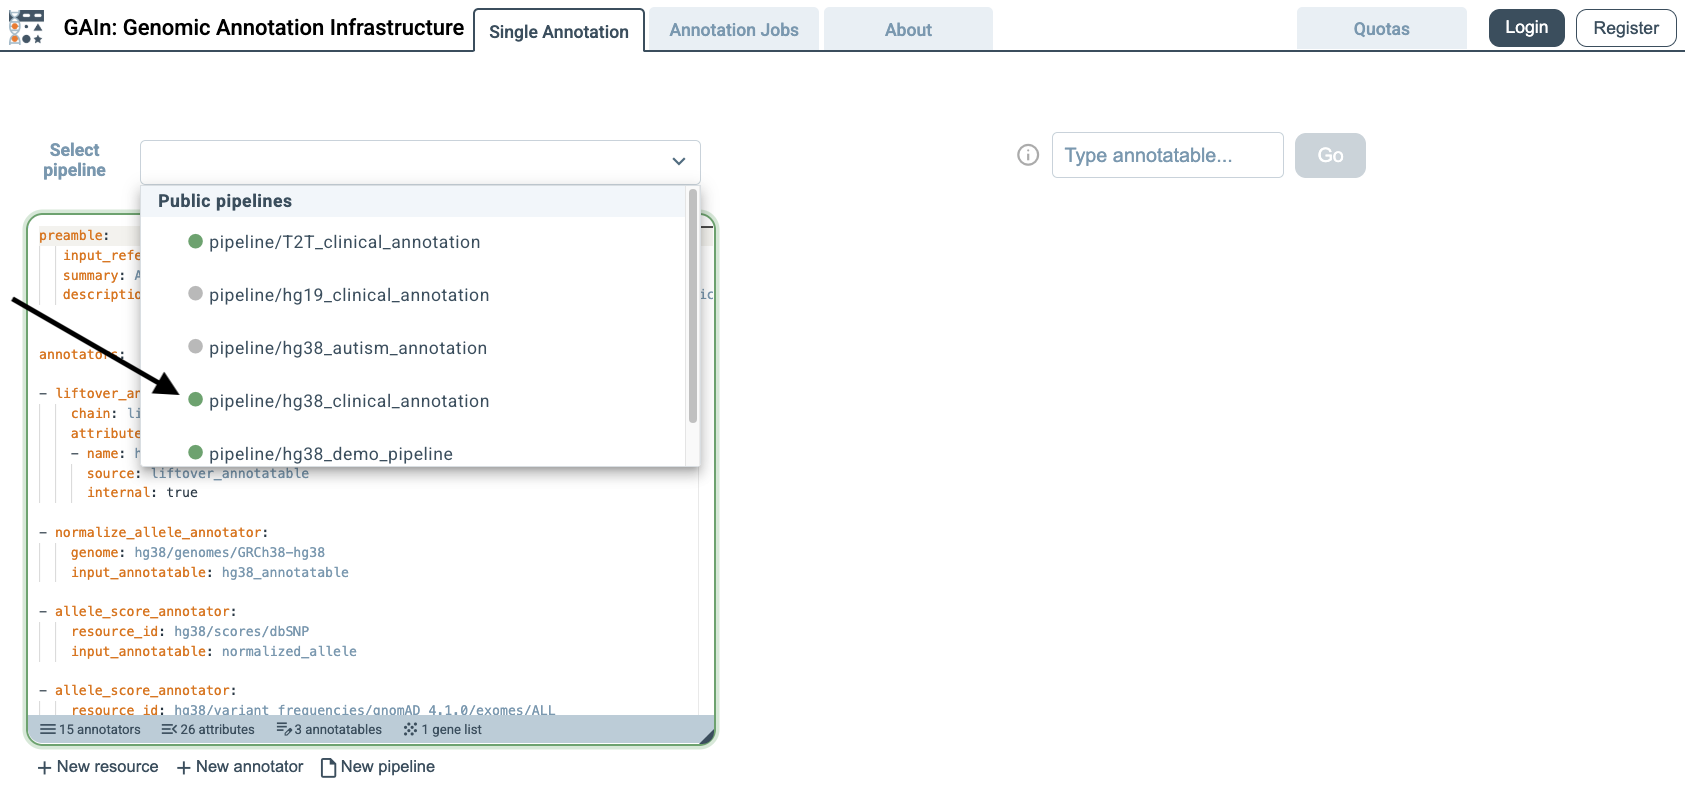
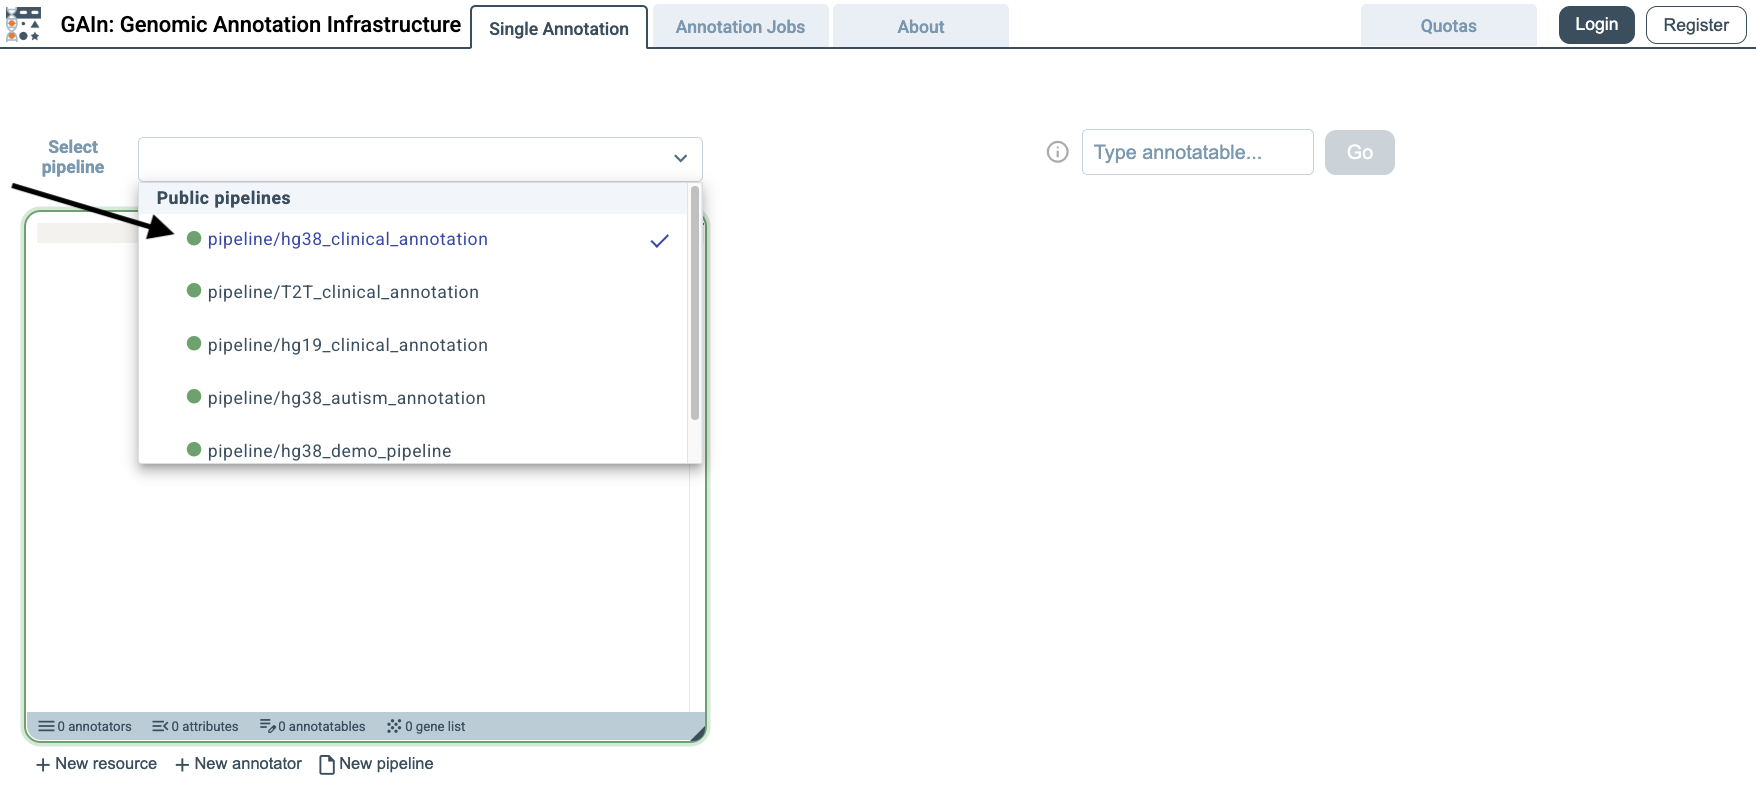
getting started with GRR restructured

Changed region(s): [[0.0, 0.183, 0.432, 0.9759], [0.0, 0.0, 1.0, 0.0915], [0.5864, 0.1525, 0.8332, 0.244]]

diff --git a/docs/source/gain_getting_started_grr.rst b/docs/source/gain_getting_started_grr.rst
@@ -23,12 +23,65 @@ Initialize this directory as a GRR:
 
 From now on, any subdirectory under ``my_GRR`` becomes a genomic resource if:
 
-1. It contains a properly configured genomic_resource.yaml, and
+1. It contains a properly configured ``genomic_resource.yaml``, and
 
 2. It includes the data files referenced in that YAML.
 
-Add new resources
----------------------
+
+
+Connect the local GRR to GAIn
+-----------------------------
+
+A fresh GAIn installation includes access to the default public IossifovLab GRR. To make GAIn use ``my_GRR`` for browsing and annotation, add it to your GRR definition file, ``~/.grr_definition.yaml``. Replace <path_to_my_GRR>/my_GRR with the full path to the ``my_GRR`` directory you created above.
+
+
+.. code-block:: yaml
+
+    id: development
+    type: group
+    children:
+
+    - id: main-GRR
+      type: url
+      url: https://grr.iossifovlab.com
+    
+    - id: my_GRR
+      type: directory
+      directory: <path_to_my_GRR>/my_GRR
+
+This configuration tells GAIn that, when resolving a resource ID, it should first look in the public GRR
+hosted by the Iossifov lab (``GRR``). If the resource is not found there, it then falls back to the local
+directory-based GRR (``my_GRR``). 
+
+You can confirm that GAIn recognizes both GRRs by running ``grr_browse``:
+
+.. code-block:: bash
+
+    grr_browse
+
+The output should show that GAIn is using ``~/.grr_definition.yaml`` and that
+both ``main-GRR`` and ``my_GRR`` are included in the active GRR definition:
+
+.. code-block:: text
+
+    Working with GRR definition: <home directory>/.grr_definition.yaml
+    id: development
+    type: group
+    children:
+    - id: main-GRR
+      type: url
+      url: https://grr.iossifovlab.com
+    - id: my_GRR
+      type: directory
+      directory: <path_to_my_GRR>/my_GRR
+
+    samocha_enrichment_background 0        4 1.38 MB      main-GRR enrichment/samocha_background
+    gene_score           0        6 7.8 MB       main-GRR gene_properties/gene_scores/Iossifov_Wigler_PNAS_2015
+    gene_score           0       11 576.07 KB    main-GRR gene_properties/gene_scores/LGD
+    ...
+
+Add new resources to the local GRR
+------------------------------
 
 1: Toy genome
 ^^^^^^^^^^^^^^^^^^^^^^^
@@ -77,9 +130,8 @@ this configures the minigenome resource so GAIn can recognize and use it for ann
       summary: mini genome
 
 
-With the FASTA, index, and ``genomic_resource.yaml`` in place, the minigenome resource is already usable for 
-annotation by GAIn (however, you will need to update your ``.grr_definition.yaml`` file to include ``my_GRR``, 
-which includes this resource). 
+With the FASTA, index, and ``genomic_resource.yaml`` in place, the ``my_minigenome`` resource is already usable for 
+annotation by GAIn. 
 We strongly recommend running the command below, which checks the resource and produces summary statistics.
 
 .. code-block:: bash
@@ -1001,65 +1053,18 @@ and any available statistics for the CNV collection resource.
 
 
 
+Annotation using the local GRR
+------------------------------
 
-Select GRR to work with
------------------------
+Your local GRR is now ready to support annotation. The examples above added several local resources, including genomes, gene models, position scores, and allele scores. Since ``my_GRR`` is listed in ``~/.grr_definition.yaml``, GAIn can use these resources during annotation. The example below uses the local resources created in this guide.
 
-As noted earlier, a fresh GAIn installation includes access to the default IossifovLab GRR. 
-If you want GAIn to use a different set of GRRs for annotation (for example, a local GRR you created), 
-you can define them explicitly by creating a file named .grr_definition.yaml in your home directory. 
-This file specifies which GRRs GAIn should connect to when browsing and annotating.
-
-To let GAIn see our newly created local repository, my_GRR, we create ~/.grr_definition.yaml with 
-the following content:
-
-.. code-block:: yaml
-
-   id: development
-   type: group
-   children:
-   - id: GRR
-     type: url
-     url: https://grr.iossifovlab.com
-
-   - id: my_GRR
-     type: directory
-     directory: <path to myGRR>/my_GRR
-
-
-This configuration tells GAIn that, when resolving a resource ID, it should first look in the public GRR
-hosted by the Iossifov lab (``GRR``). If the resource is not found there, it then falls back to the local
-directory-based GRR (``my_GRR``). 
-
-If you use the ``grr_browse`` command again, you will see that GAIn now recognizes both GRRs.
-
-.. code-block:: text
-
-    Working with GRR definition: <home directory>/.grr_definition.yaml
-    id: development
-    type: group
-    children:
-    - id: GRR
-      type: url
-      url: https://grr.iossifovlab.com
-    - id: my_GRR
-      type: directory
-      directory: <path to myGRR>/my_GRR
-
-    samocha_enrichment_background 0        4 1.38 MB      GRR enrichment/samocha_background
-    gene_score           0        6 7.8 MB       GRR gene_properties/gene_scores/Iossifov_Wigler_PNAS_2015
-    gene_score           0       11 576.07 KB    GRR gene_properties/gene_scores/LGD
-    ...
-
-Below is an example annotation pipeline you can run using your 
-local resources. Copy the contents into a text file named 
-``annotation_pipeline_local.yaml``.
+Create a file named ``annotation_pipeline_local.yaml`` with the following content:
 
 .. code-block:: yaml
 
     preamble:
-    summary: Local pipeline 
-    input_reference_genome: my_genome
+      summary: Local pipeline
+      input_reference_genome: my_genome
 
     annotators:
     - effect_annotator:
@@ -1069,82 +1074,59 @@ local resources. Copy the contents into a text file named
         - gene_list
         - genes
 
-    - position_score:
+    - position_score_annotator:
         resource_id: my_position
 
     - normalize_allele_annotator
-    - allele_score: 
-        resource_id: my_allele 
+
+    - allele_score_annotator:
+        resource_id: my_allele
         input_annotatable: normalized_allele
 
     - gene_score_annotator:
         resource_id: my_genescore
         input_gene_list: gene_list
 
-Run the following command to annotate your variants using this pipeline.
+Run the following command to annotate your variants using this pipeline:
 
 .. code-block:: bash
 
-    annotate_tabular variants.txt annotation_pipeline_local.yaml
+    annotate_tabular small_input.csv annotation_pipeline_local.yaml -variants_local_annotated.txt
 
-
-This will create a ``variants.annotated.txt`` file with the following content:
+This command creates a file named ``small_input.annotated.csv`` with the following content:
 
 .. csv-table::
     :header-rows: 1
 
     chrom,pos,ref,alt,worst_effect,genes,phyloP7way,am_pathogenicity,am_class,my_genescore
-    chr14,21415880,G,A,nonsense,CHD8,0.917,,,{'CHD8': 9}
-    chr17,7674904,TCT,T,frame-shift,TP53,-0.12,0.151,likely_benignlikely_benignlikely_benignlikely_benignlikely_benignlikely_benignlikely_benignlikely_benignlikely_benign,{'TP53': 3}
-    chr7,117587806,G,A,missense,CFTR,0.917,0.99,likely_pathogenic,{'CFTR': 7}
-
-You can now annotate your variants for gene effects using the latest genomic 
-assembly (GRCh38-p14), the MANE gene model (v1.5), PhyloP7, and AlphaMissense — 
-entirely offline. Simply comment out the Iossifov Lab GRR resource in your 
-``.grr_definition.yaml`` file, disconnect from the network, and run the annotation locally.
+    chr14,21415880,G,A,nonsense,CHD8,0.917,,,"{'CHD8': 9}"
+    chr17,7674904,TCT,T,frame-shift,TP53,-0.12,0.151,likely_benignlikely_benignlikely_benignlikely_benignlikely_benignlikely_benignlikely_benignlikely_benignlikely_benign,"{'TP53': 3}"
+    chr7,117587806,G,A,missense,CFTR,0.917,0.99,likely_pathogenic,"{'CFTR': 7}"
 
 
-.. code-block:: yaml
-
-    id: "development"
-    type: group
-    children:
-    #- id: "GRR"
-    #  type: "url"
-    #  url: "https://grr.iossifovlab.com"
-
-    - id: "my_GRR"
-    type: "directory"
-    directory: "/Users/muratcokol/Desktop/my_GRR"
-
-
-
-
-
-
-miniGRR: a template GRR
+mini-GRR: a template GRR
 -----------------------
 
-Defining new genomic resources can feel a bit abstract at first: different resource types expect different file formats 
-(FASTA, BigWig, tabix-indexed TSV/VCF, …), coordinate conventions (0-based vs 1-based), and configuration options in 
-``genomic_resource.yaml``. To make this concrete, we provide **miniGRR**, a small, self-contained Genomic Resource Repository on 
-GitHub that you can use as a template.
+Defining new genomic resources can feel abstract at first: different resource types expect different file formats, coordinate conventions, and configuration options in ``genomic_resource.yaml``. To make these patterns easier to inspect, we provide ``mini-GRR``, a small, self-contained Genomic Resource Repository that can be used as a template or reference.
 
-You can clone miniGRR with:
+You can clone ``mini-GRR`` with:
 
 .. code-block:: bash
 
-   git clone https://github.com/iossifovlab/mini_grr.git
-   cd mini_grr
+    git clone https://github.com/iossifovlab/mini-grr.git
+    cd mini-grr
 
-miniGRR contains a toy genome (two short chromosomes, 20 nucleotides each) with ready-made ``genomic_resource.yaml`` 
-descriptors, plus minimal examples of gene models (RefSeq- and GTF-style, one gene per chromosome), position scores, 
-allele scores, gene scores and gene sets. The resources span common file types (e.g., TSV/tabix, BedGraph/BigWig, VCF) 
-and both 0-based and 1-based coordinate conventions, so you can see exactly how formats and offsets are declared in practice.
+``mini-GRR`` contains a toy genome with ready-made ``genomic_resource.yaml`` descriptors, plus minimal examples of gene models, position scores, allele scores, gene scores, and gene sets. The resources span common file types, such as TSV/tabix, BedGraph/BigWig, and VCF, and include both 0-based and 1-based coordinate conventions.
 
-Once cloned, you can point GAIn to miniGRR in your ``.grr_definition.yaml`` and run pipelines against it on a laptop to verify 
-that your installation and configuration work as expected. After you understand how a given resource is structured, you can 
-swap in your own data (for example, replace the mini FASTA with a real assembly, or replace a toy score track with your own) 
-by editing the corresponding ``genomic_resource.yaml``. In this way, miniGRR serves as a template GRR that demonstrates directory 
-layout, metadata fields, and attribute wiring with minimal compute, making it easier to bootstrap a private GRR and extend it resource by resource.
+To use ``miniGRR`` with GAIn, add it to your ``~/.grr_definition.yaml`` file in the same way as any other local GRR:
 
+.. code-block:: yaml
+
+    id: development
+    type: group
+    children:
+    - id: miniGRR
+      type: directory
+      directory: <path_to_mini_grr>/mini-grr
+
+Once configured, you can browse and run pipelines against ``miniGRR`` to verify that your GAIn installation and GRR configuration work as expected. After you understand how a resource is structured, you can use the corresponding ``mini-GRR`` example as a starting point for your own data by replacing the toy files and editing ``genomic_resource.yaml``. In this way, ``mini-GRR`` provides a compact reference for GRR directory layout, metadata fields, and resource configuration.

diff --git a/docs/source/gain_getting_started_web.rst b/docs/source/gain_getting_started_web.rst
@@ -2,17 +2,15 @@
 Getting started on the web
 ===============================
 
-The GAIn Web Annotation page (https://gain.iossifovlab.com/) 
-provides a simple and interactive interface for annotating genetic variants, positions, or regions, collectively referred to as annotatables. The page is organized into two main areas. On the left, users can create, edit, and manage annotation pipelines, either by selecting a saved pipeline or by building a new one. This pipeline editor defines which resources and annotators are applied during annotation. On the right, users can enter an annotatable, submit it for processing, and view the resulting annotations. Together, these two panels allow users to configure an annotation workflow and immediately apply it to annotatables of interest.
+The GAIn Web Annotation page (https://gain.iossifovlab.com/) provides a simple and interactive interface for annotating genetic variants, positions, or regions, collectively referred to as annotatables. The page is organized into two main areas. On the left, users can create, edit, and manage annotation pipelines, either by selecting a saved pipeline or by building a new one. This pipeline editor defines which resources and annotators are applied during annotation. On the right, users can enter an annotatable, submit it for processing, and view the resulting annotations. Together, these two panels allow users to configure an annotation workflow and immediately apply it to annotatables of interest.
 
 .. figure:: figures/GAInWeb1b.png
-
-
+  :scale: 50 %
 
 Select annotation pipeline
 **************************
 
-To begin, open the Select pipeline menu, scroll through the available options, and choose ``pipeline/hg38_clinical_annotation``. This pipeline is designed for annotatables provided in the ``hg38`` assembly and annotates them with a broad set of clinically relevant attributes. In addition to effect prediction, it incorporates information from resources such as dbSNP, gnomAD, ClinVar, CADD, AlphaMissense, MPC, and gene-level constraint scores. After selecting it, users can review the full annotation pipeline definition in the annotation pipeline editor on the left.
+To begin, open the Select pipeline menu, scroll through the available options, and choose ``pipeline/hg38_clinical_annotation``. This pipeline is designed for annotatables provided in the ``hg38`` assembly and annotates them with a broad set of clinically relevant attributes. In addition to effect prediction, it incorporates information from resources such as dbSNP, gnomAD, ClinVar, PhyloP7, AlphaMissense, MPC, and gene-level constraint scores. After selecting it, users can review the full annotation pipeline definition in the annotation pipeline editor on the left.
 
 
 .. figure:: figures/GAInWeb2b.png
@@ -41,7 +39,7 @@ Annotation jobs
 The second annotation mode is **Annotation jobs**, which allows multiple annotatables 
 to be annotated at once. In this mode, users upload a file in tabular or VCF format 
 containing annotatables (variants, positions, or regions) with the required coordinate 
-information. Click Annotation jobs on the right side of the page. 
+information. Click Annotation jobs tab on the top. 
 
 .. figure:: figures/GAInWeb5.png
   :scale: 50 %

diff --git a/docs/source/gain_getting_started_cli.rst b/docs/source/gain_getting_started_cli.rst
@@ -181,7 +181,7 @@ So far, GAIn has been using the default GRR definition, which corresponds to the
 
 After this configuration, GAIn downloads each required resource to the specified cache directory before using it for annotation. Because genomic resources can be large, the cache directory should have sufficient disk space and write permission for the user. If ``<path_to_cache>`` does not have enough available space, use another cache directory with sufficient storage. The approximate space requirements for the resources used in this guide are described below.
 
-This is especially important for large annotation pipelines. For example, a comprehensive clinical pipeline such as ``pipeline/hg38_clinical_annotation`` may require many large resources. These resources total approximately 40 GB and may take substantial time to download, depending on network speed and storage performance. Once cached, however, they can be reused directly from the local cache, making future annotation jobs much faster.
+This is especially important for large annotation pipelines. For example, a comprehensive clinical pipeline such as ``pipeline/hg38_clinical_annotation`` may require many large resources. These resources total approximately 40 GB and may take substantial time to download, depending on network speed and storage performance. This took approximately 16 minutes in our test with a Mac laptop. Once cached, however, they can be reused directly from the local cache, making future annotation jobs much faster.
 
 GAIn can automatically download required resources during annotation. For large pipelines, however, it is often better to pre-download them before starting the annotation job. GAIn provides a dedicated tool for this purpose:
 
@@ -191,7 +191,7 @@ GAIn can automatically download required resources during annotation. For large 
 
 This command downloads the resources required by the pipeline in one step, so that the actual annotation job does not need to pause while resources are being retrieved.
 
-Custom pipelines can also reduce the amount of data that must be cached. A broad clinical pipeline may require more than 40 GB of resources, whereas a focused custom pipeline may require only the resources needed for a specific analysis. For example, the custom pipeline shown above requires approximately 8 GB of resources. Custom pipelines therefore help control annotation content while reducing storage requirements and setup time. You can cache the resources for the custom pipeline used above with:
+Custom pipelines can also reduce the amount of data that must be cached. A broad clinical pipeline may require more than 40 GB of resources, whereas a focused custom pipeline may require only the resources needed for a specific analysis. For example, the custom pipeline shown above requires approximately 8 GB of resources. Custom pipelines therefore help control annotation content while reducing storage requirements and setup time. You can cache the resources for the custom pipeline used above with the following command. Since this custom pipeline is a subset of the hg38 clinical pipeline, this command will not download any additional resources if the clinical pipeline has already been cached.
 
 .. code-block:: bash
 
@@ -212,7 +212,7 @@ or
 
     annotate_tabular 50k_variants.tsv.gz custom_pipeline.yaml
 
-Without caching, annotating a file of this size through remote resource access can take a very long time. With the required resources already cached, GAIn uses the local copies for annotation, making the same large-scale job much faster and less dependent on network performance. For example, in our test on a recent Mac laptop using cached resources, annotating 50,000 variants with ``pipeline/hg38_clinical_annotation`` took approximately 4 minutes. The input file used in this test was pre-sorted by chromosome and position, which allows GAIn to access genomic resources more efficiently. Unsorted input files can be annotated, but they will run significantly more slowly.
+Without caching, annotating a file of this size through remote resource access can take a very long time. With the required resources already cached, GAIn uses the local copies for annotation, making the same large-scale job much faster and less dependent on network performance. For example, in our test on a recent Mac laptop using cached resources, annotating 50,000 variants with ``pipeline/hg38_clinical_annotation`` took approximately 5 minutes. The input file used in this test was pre-sorted by chromosome and position, which allows GAIn to access genomic resources more efficiently. Unsorted input files can be annotated, but they will run significantly more slowly.
 
 
 Parallelizing large annotation jobs